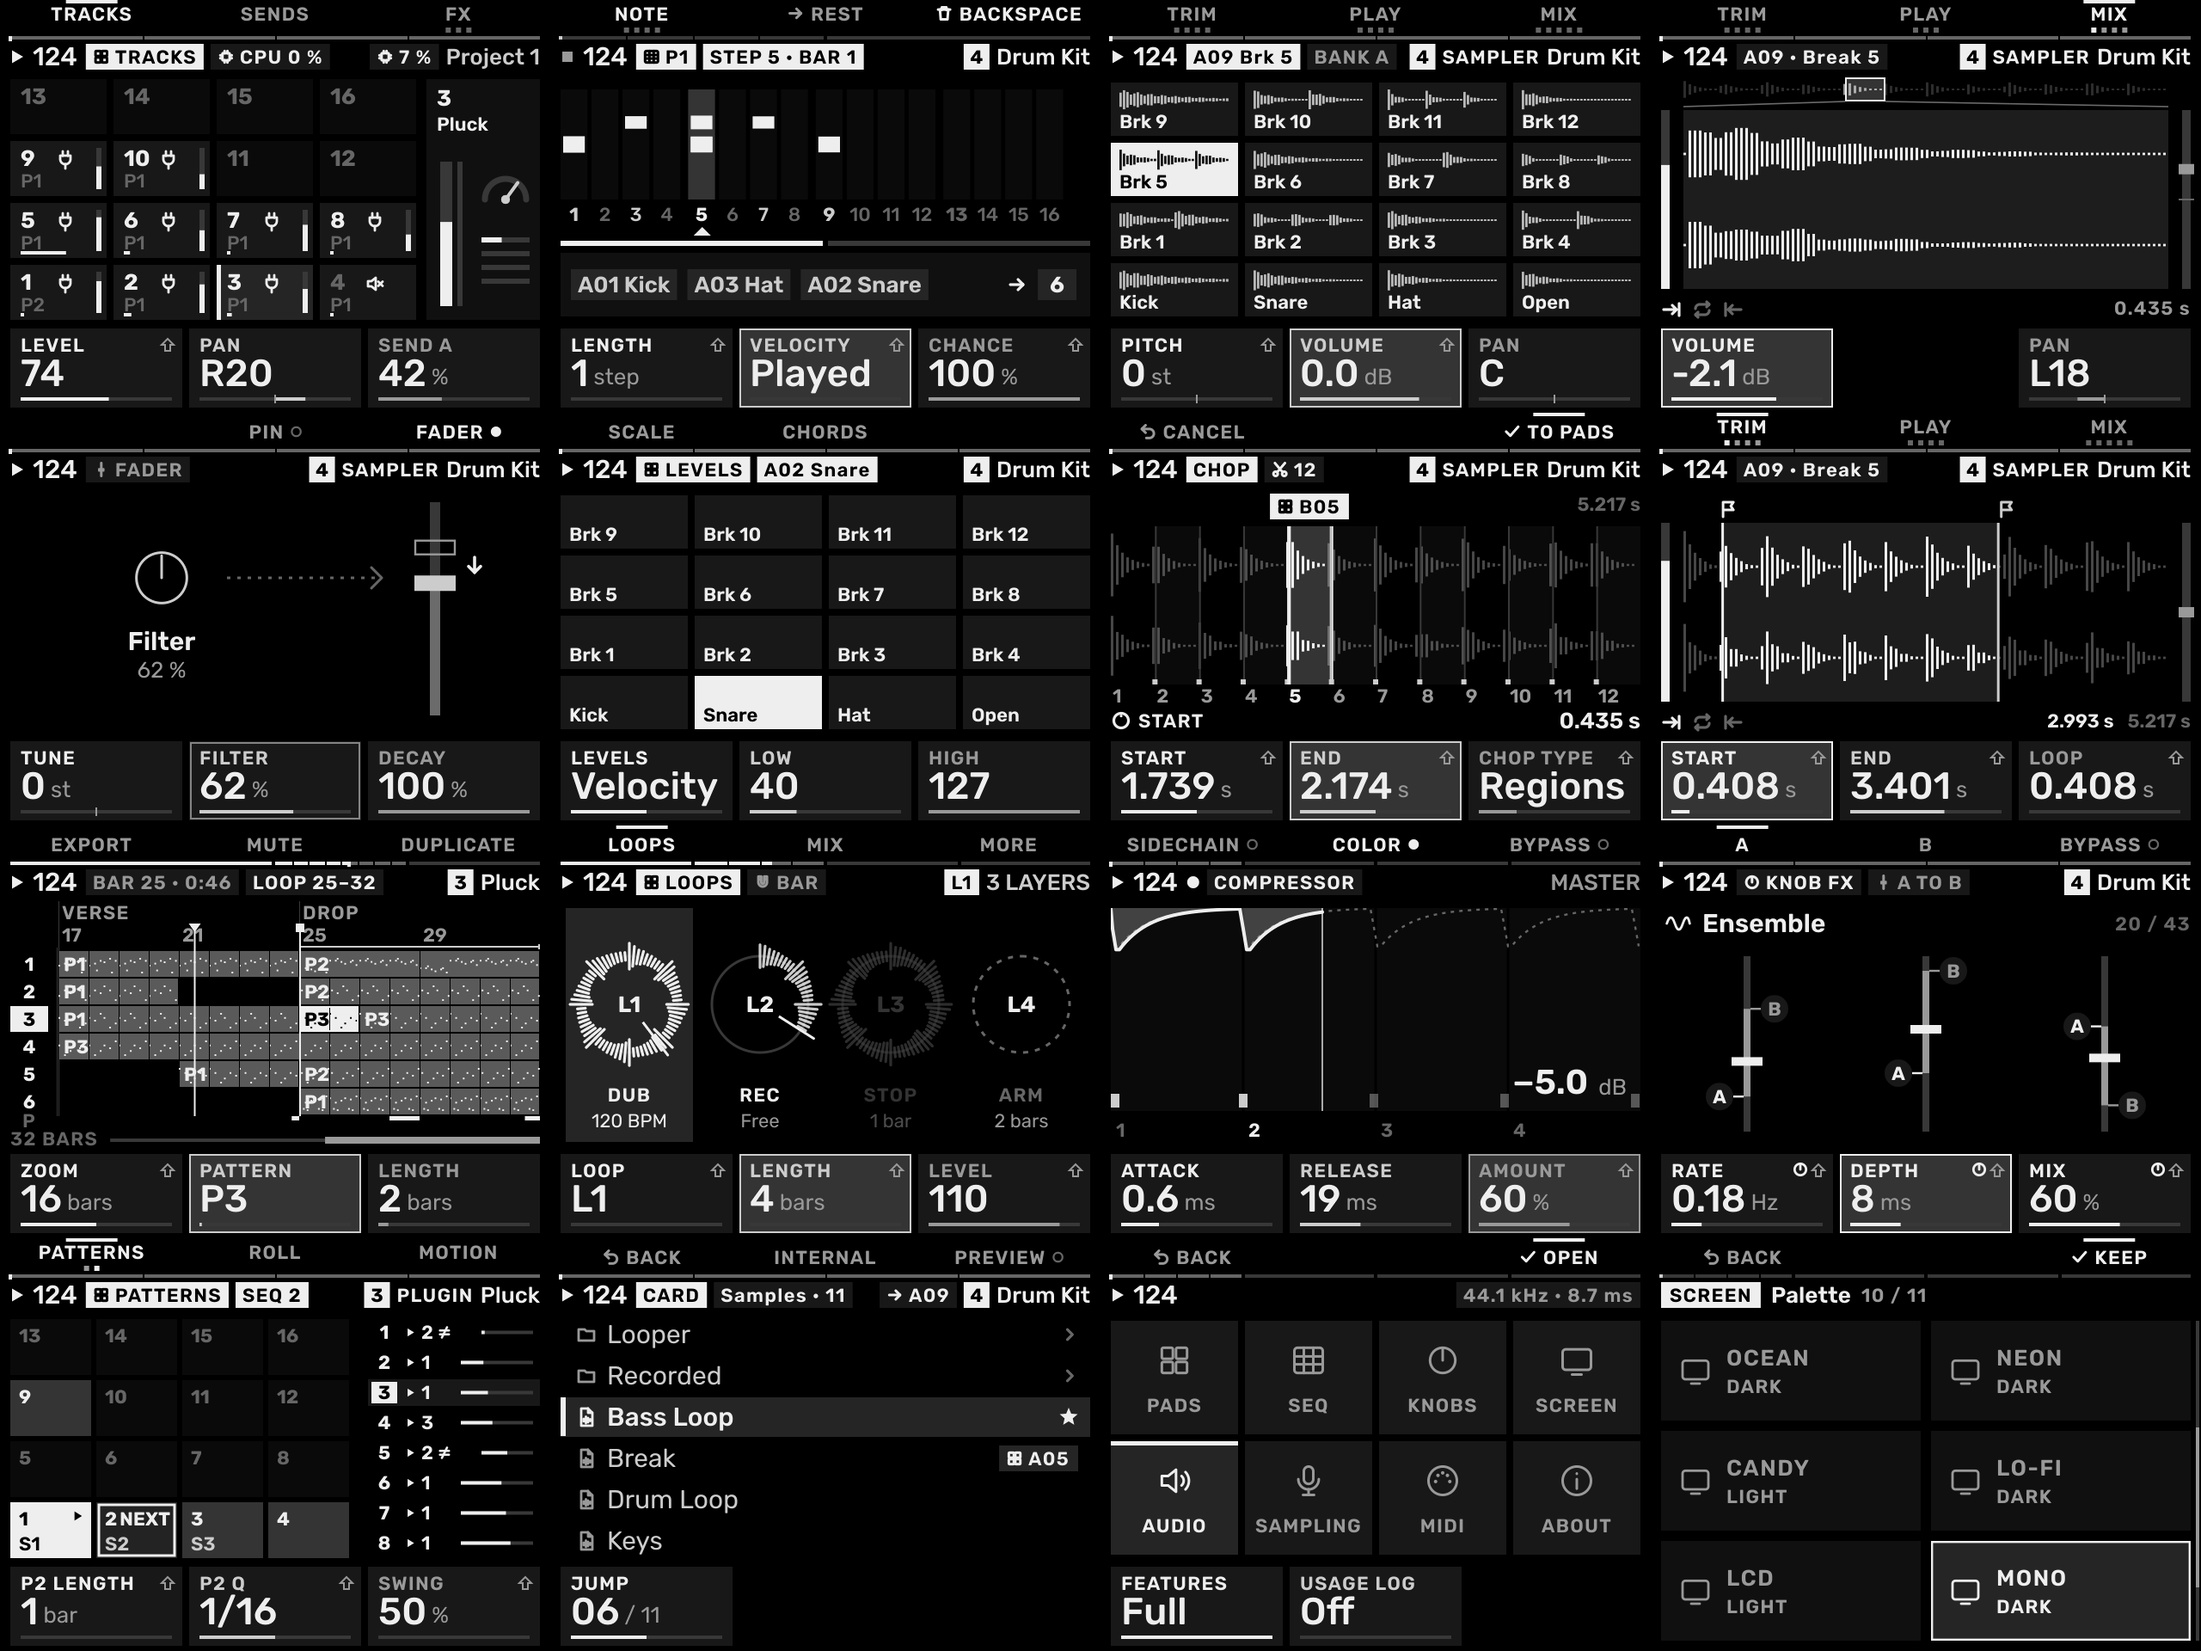
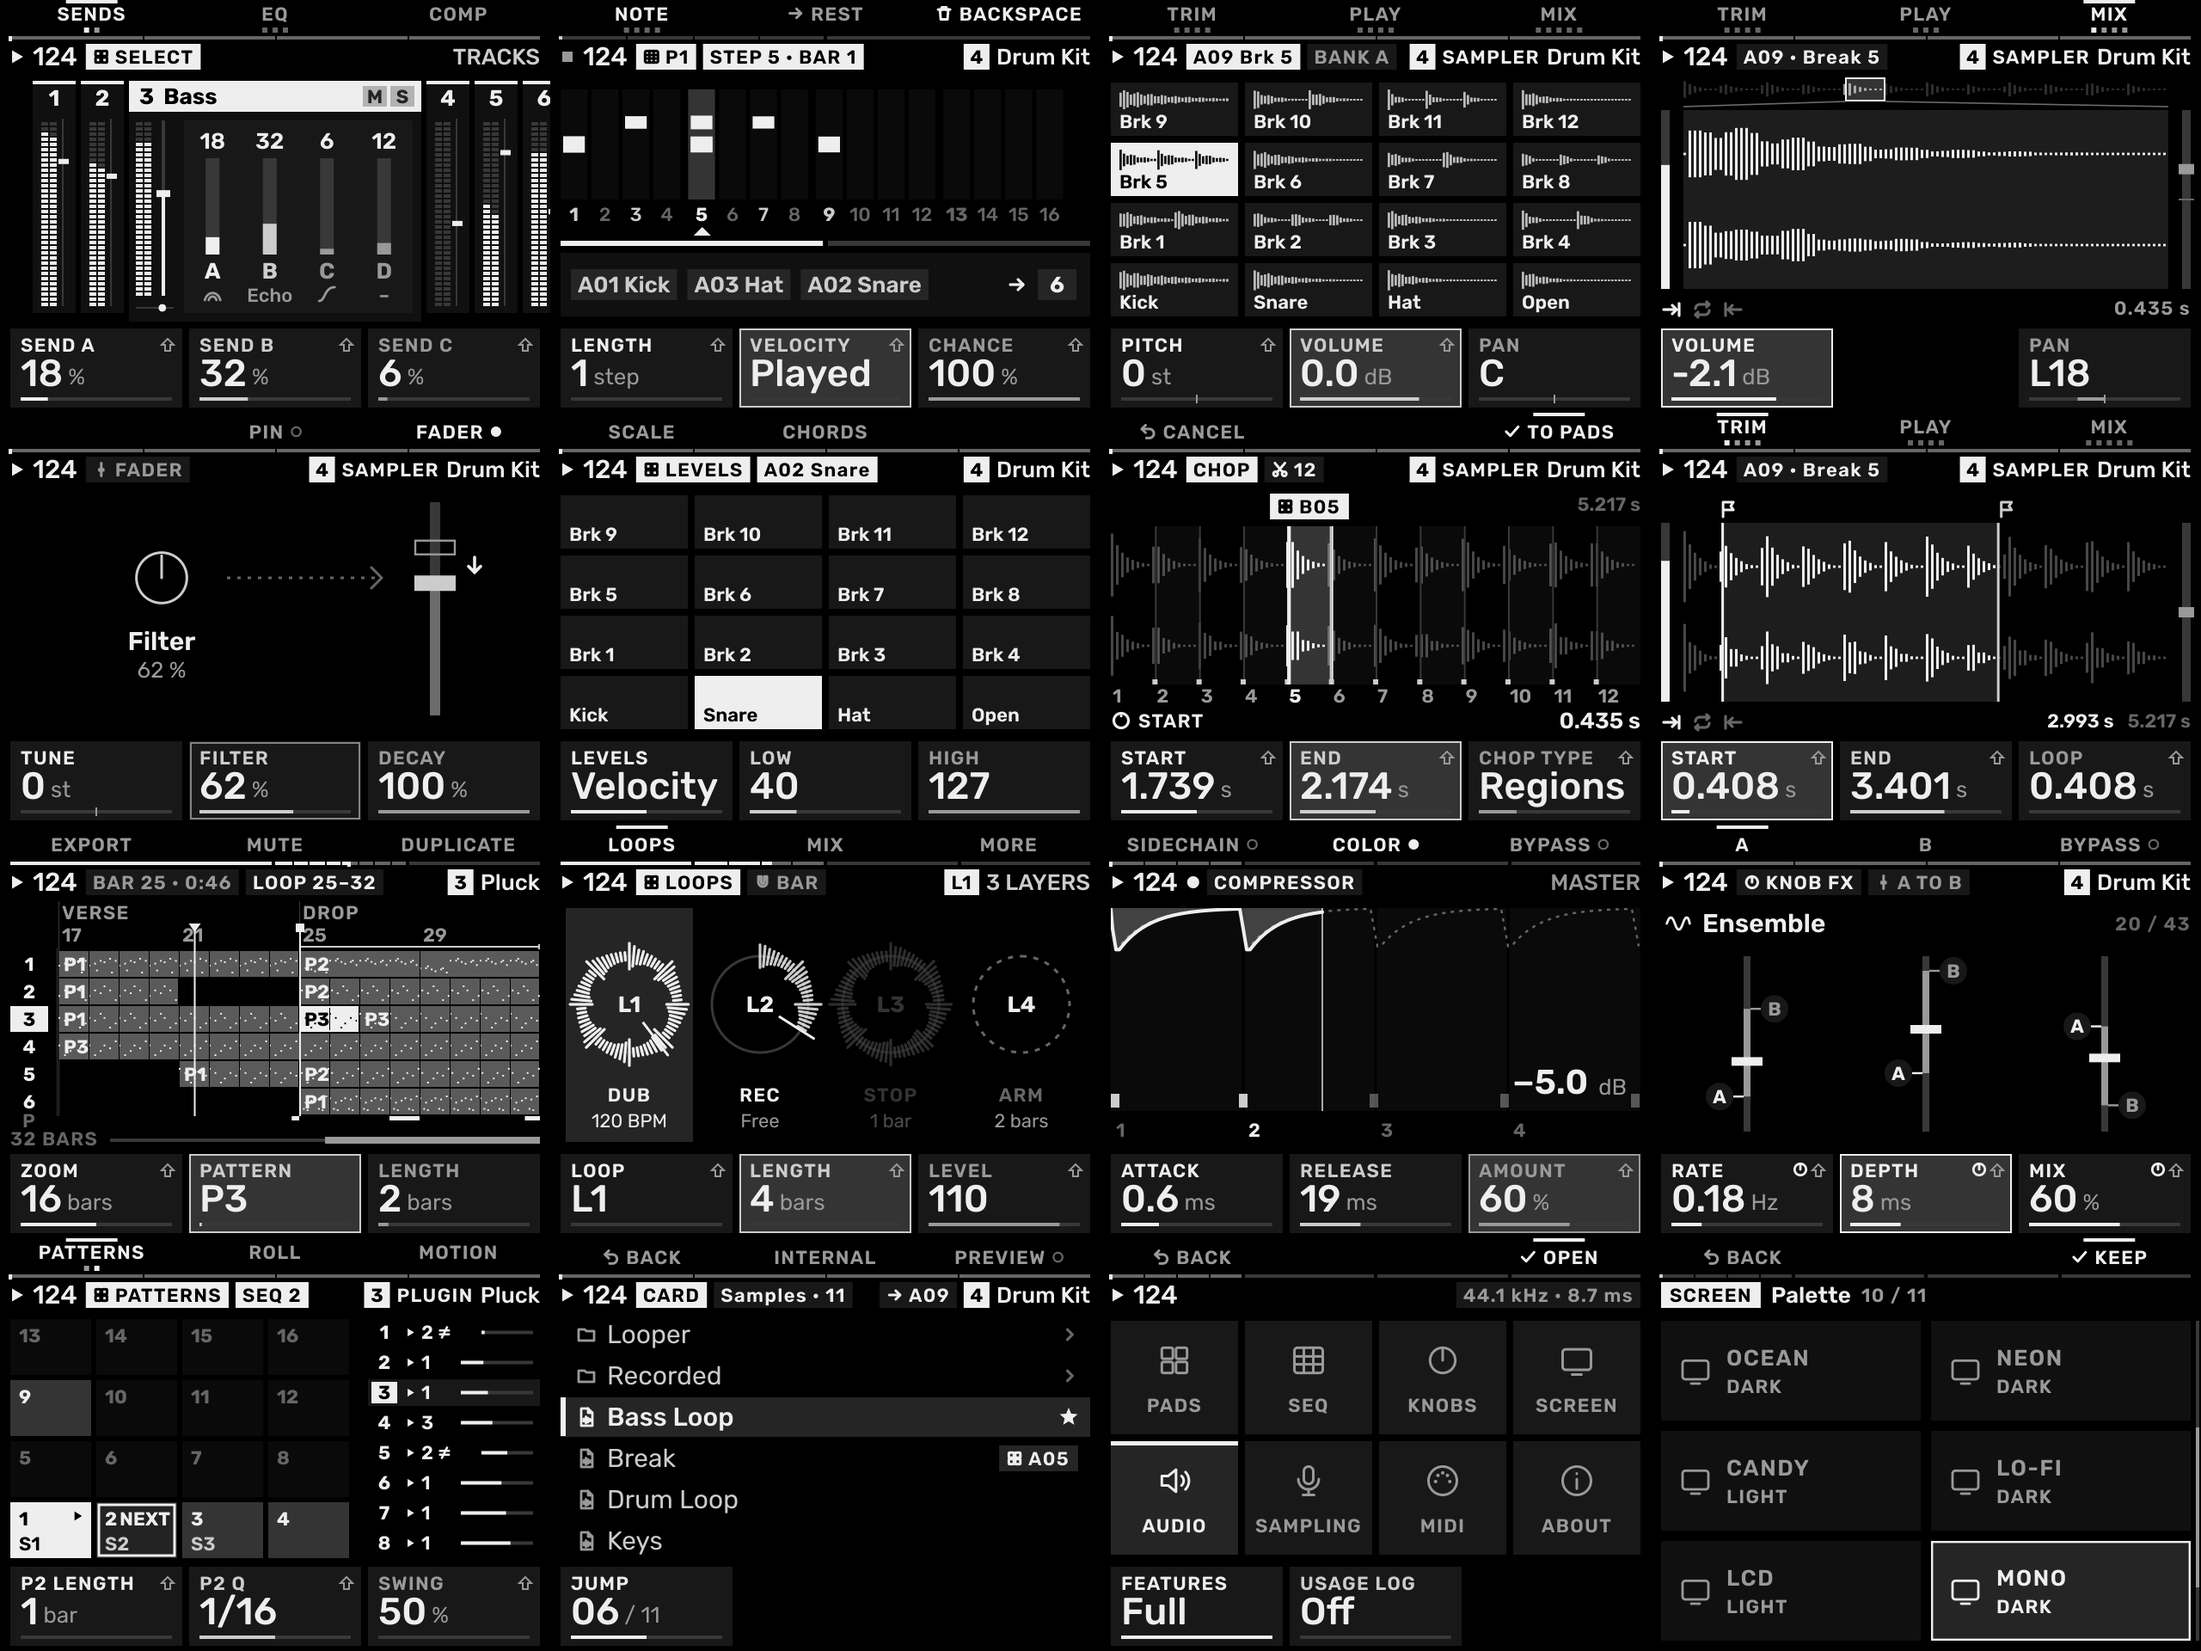
docs: showcase hdslaveOS 0.8.1 screens and mixer

Changed region(s): [[0.0, 0.0, 0.25, 0.25], [0.1562, 0.2188, 0.2188, 0.25]]

diff --git a/README.md b/README.md
@@ -4,7 +4,8 @@
 hdslave's fork of <a href="https://github.com/keremimo/melodee-sample">Melodee</a> by Kerem Kiliç (Ellic Studio), currently tracking Melodee v0.7.1.</p>
 
 <p align="center">
-  <img src="docs/images/hdslave-theme.png" alt="hdslaveOS HDSLAVE purple flare theme on the Palette, Tracks, Step Edit, and Deep Freeze screens" width="760">
+  <img src="docs/images/hdslave-theme.png" alt="hdslaveOS HDSLAVE purple flare theme on the Palette, Mixer, Step Edit, and Deep Freeze screens" width="760">
+  <br><sub>Screenshots from the hdslaveOS 0.8.1 development build.</sub>
 </p>
 
 ## What hdslaveOS adds over stock Melodee
@@ -16,10 +17,17 @@ hdslave's fork of <a href="https://github.com/keremimo/melodee-sample">Melodee</
 - **Sidechain keying from plug-in outputs**: The master compressor's **Sidechain** can be keyed directly by a CLAP plug-in's second output (such as [Foundry](https://github.com/hdslave/hdslave-Foundry-Drum-Machine)'s **SC Key** kick-only bus).
 - **Hands-on ergonomics**: On **Step Edit**, **SHIFT + encoder** steps the caret a full bar at a time; kit pads assigned any of the 16 colours light more vividly; and a custom **hdslave intro** boot film replaces the default splash.
 
+### Mixer in 0.8.1
+
+<p align="center">
+  <img src="docs/images/hdslave-mixer.png" alt="Four views of the hdslaveOS mixer showing submix sends, insert effects, channel EQ, and compression" width="760">
+  <br><sub>Submix sends, insert effects, channel EQ, and compression.</sub>
+</p>
+
 ### Palettes & Custom Plug-in Screens
 
 <p align="center">
-  <img src="docs/images/hdslave-mono-theme.png" alt="hdslaveOS MONO black-and-white dark palette across 16 screens" width="760">
+  <img src="docs/images/hdslave-mono-theme.png" alt="hdslaveOS MONO black-and-white palette across 16 screens, including the Mixer" width="760">
   <br><sub><b>MONO</b> — high-contrast black-and-white dark palette across 16 pages.</sub>
 </p>
 
